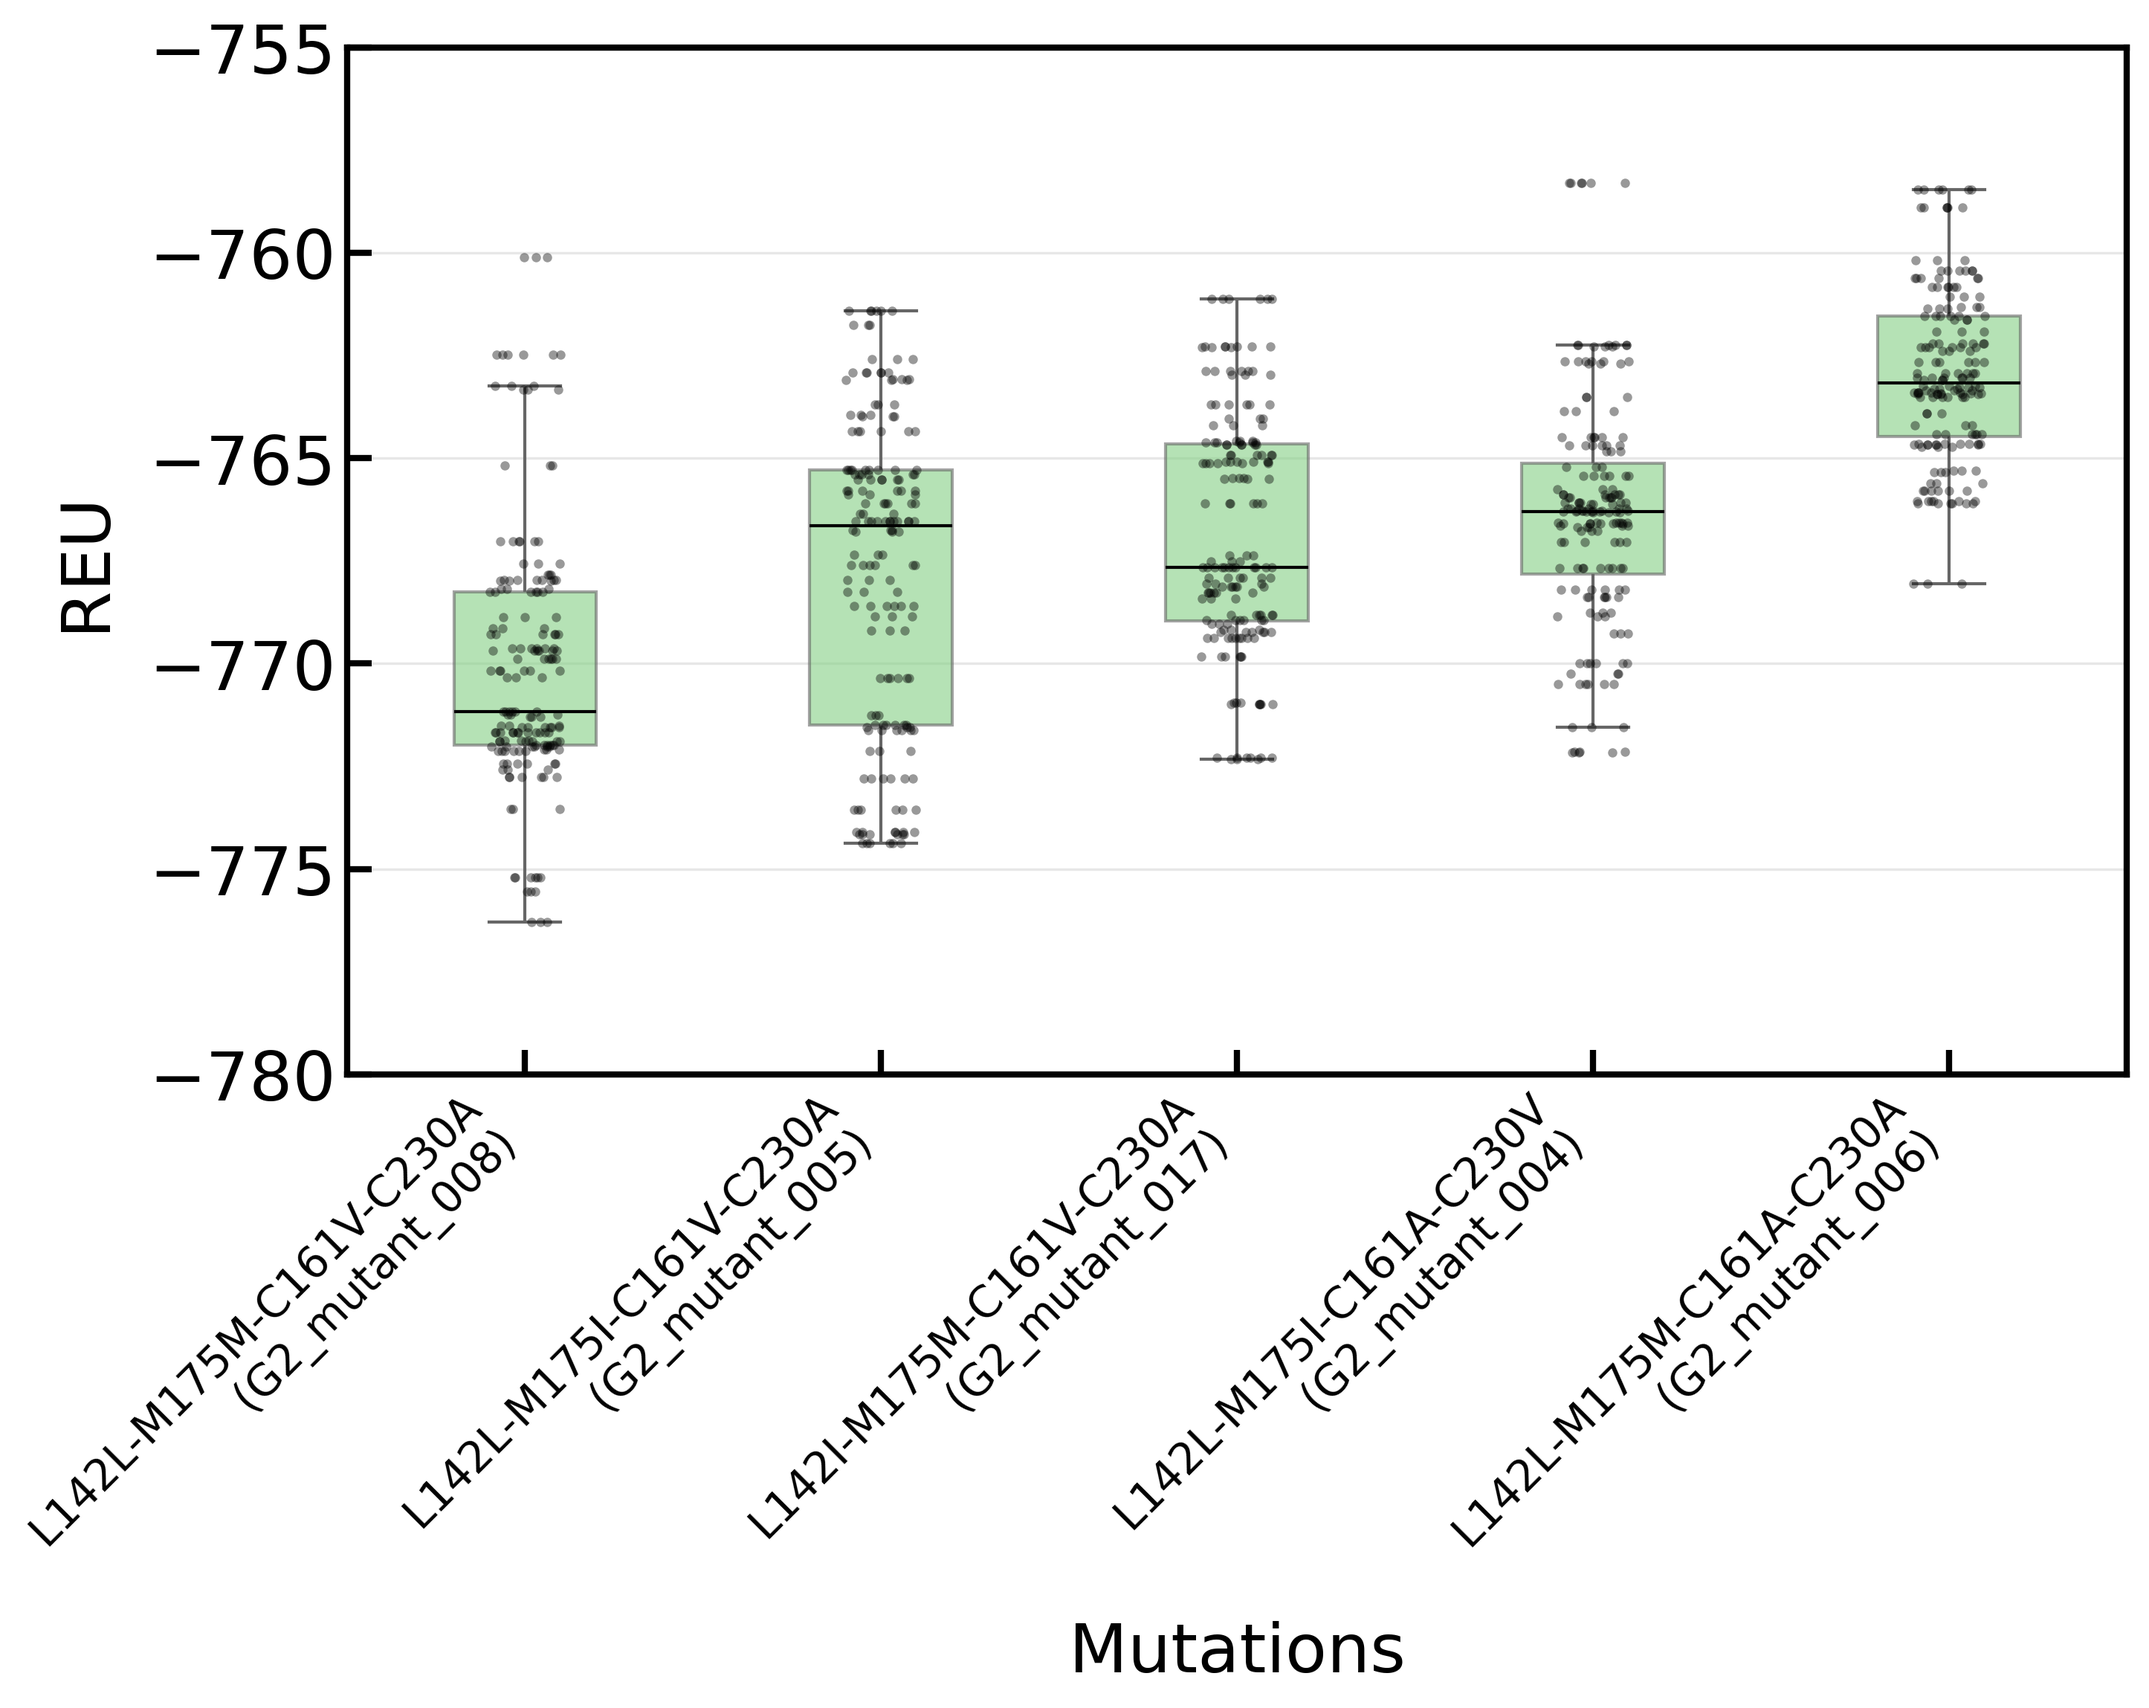
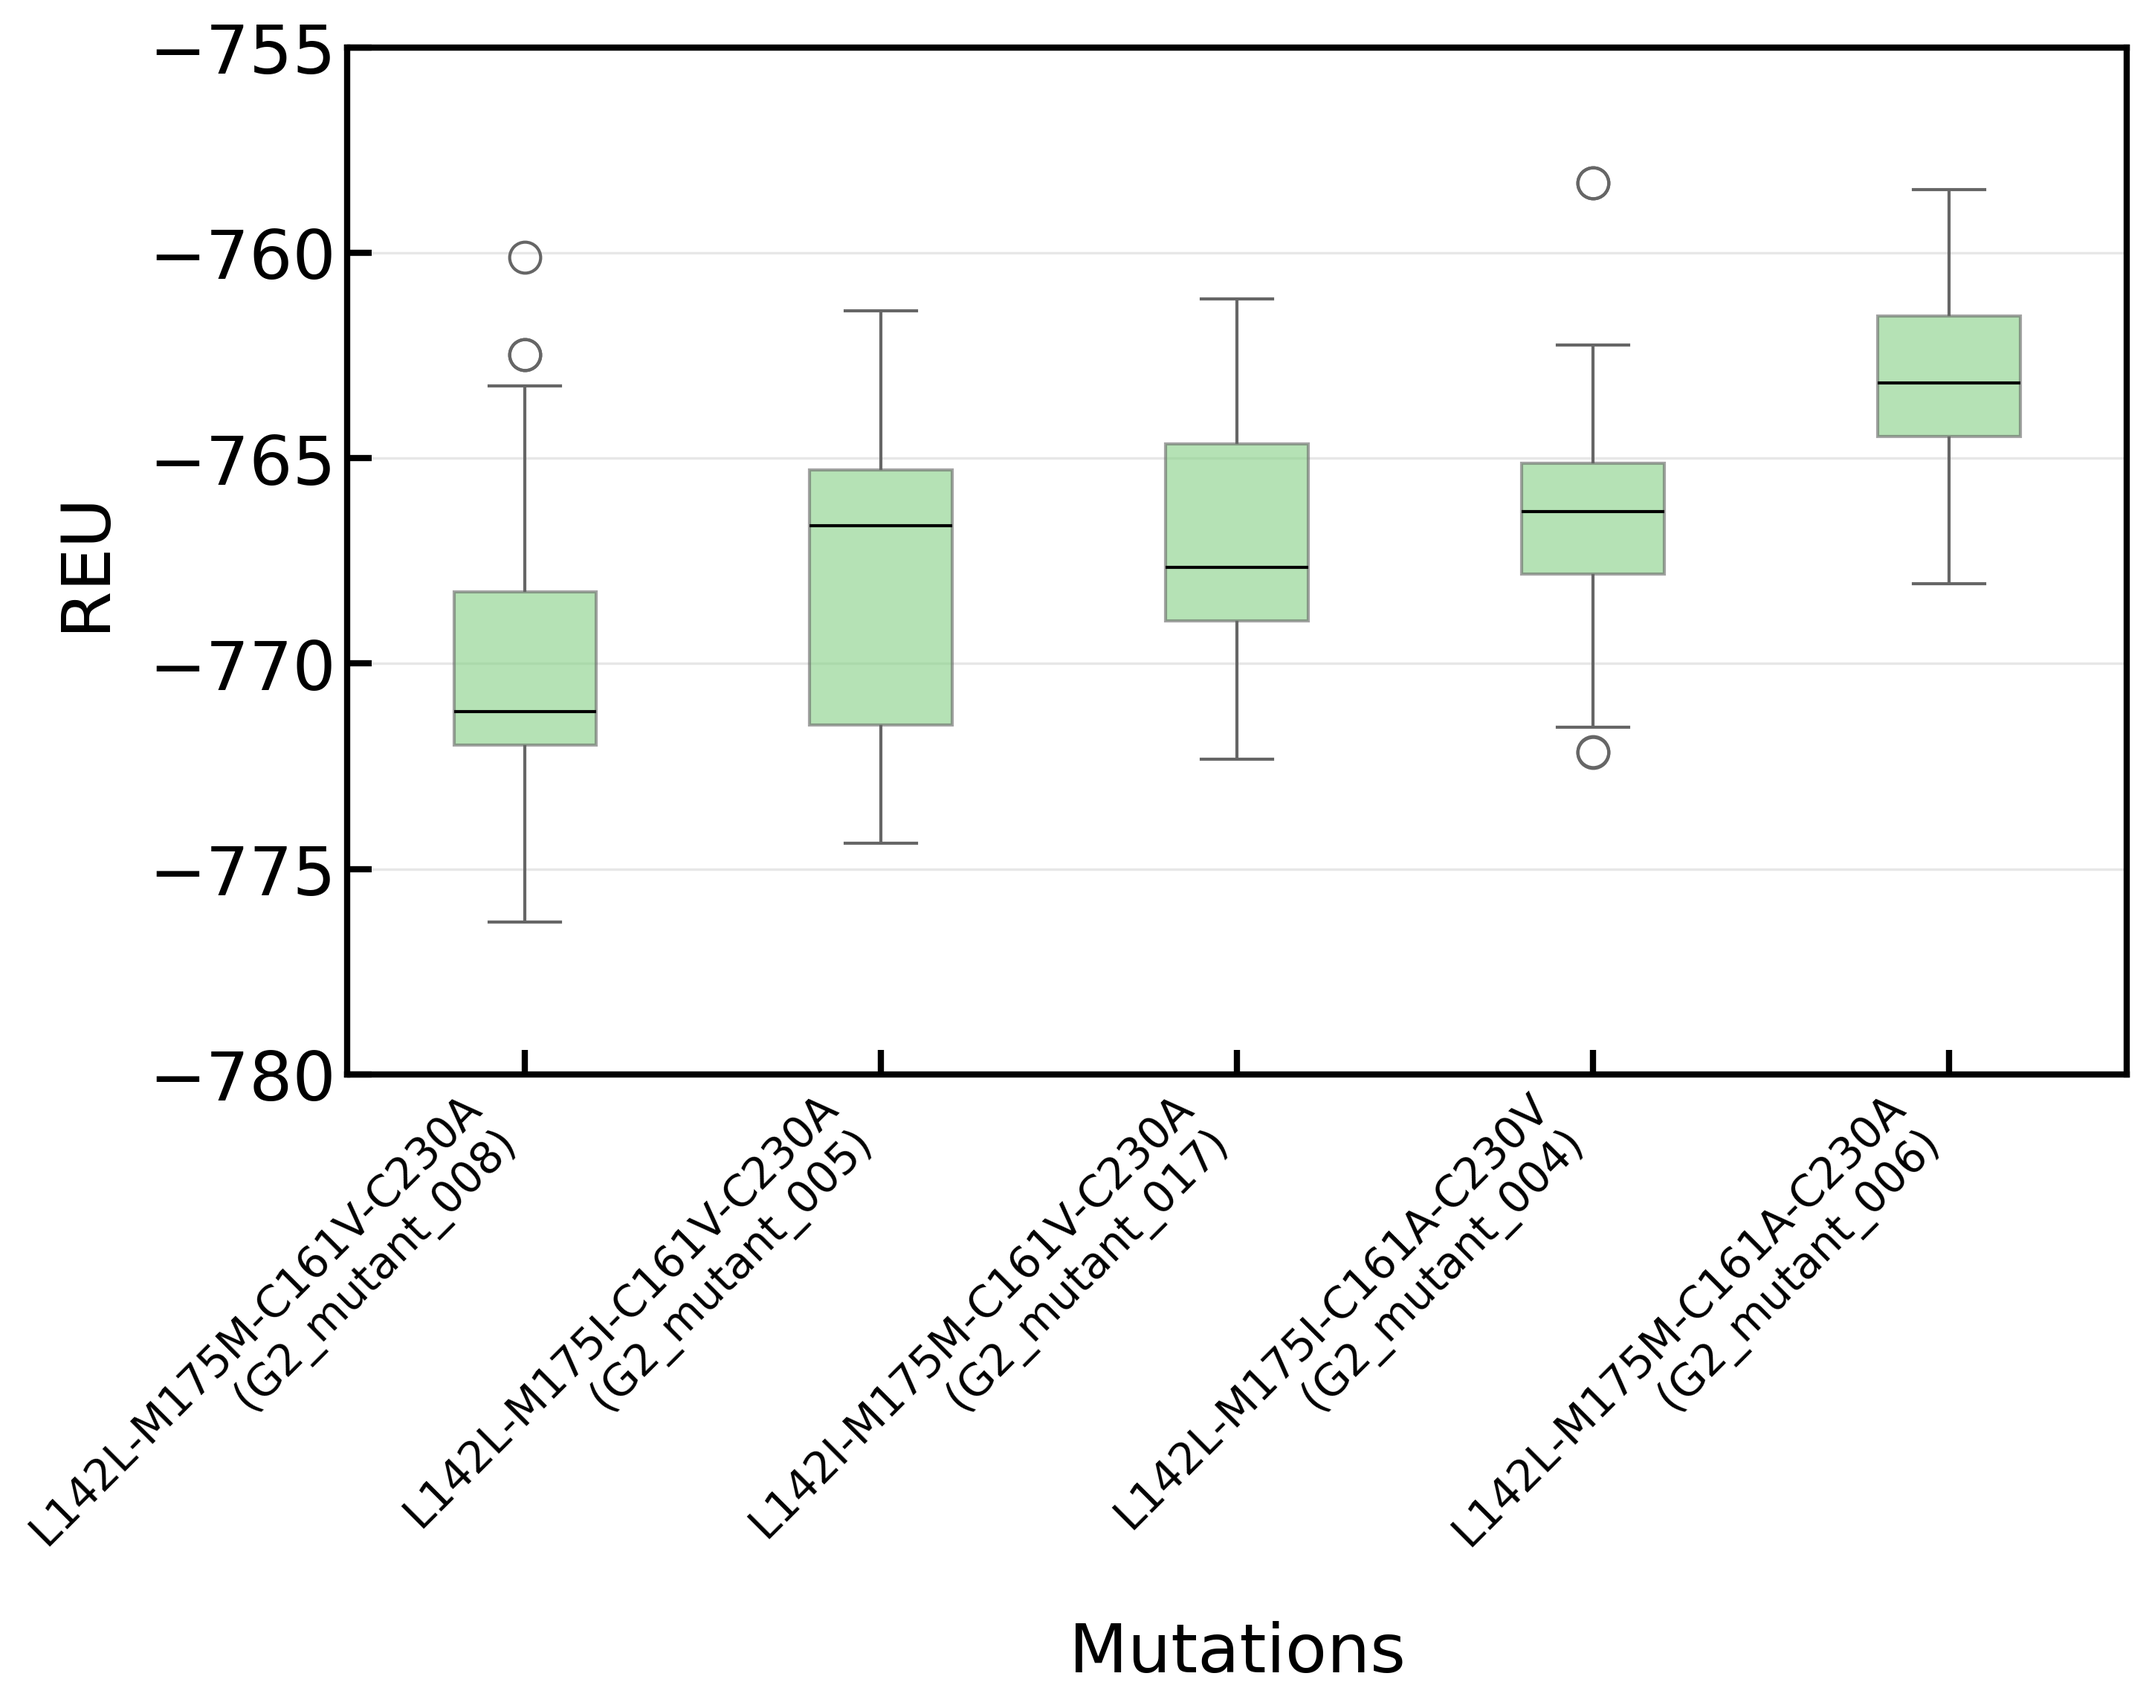
feat: show only fliers/outliers on fastrelax box plots

diff --git a/scripts/analysis/plot_fastrelax_results.py b/scripts/analysis/plot_fastrelax_results.py
@@ -173,7 +173,7 @@ def main():
             order=sort_order,
             color=GROUP_COLORS.get(group, 'lightgrey'),
             width=0.4, # More compact boxes
-            showfliers=False,
+            showfliers=True, # Show outliers
             showmeans=False,
             # meanline=True,
             # meanprops={'color': 'red', 'ls': '--', 'lw': 1.5}, # Red dashed line for mean
@@ -181,7 +181,8 @@ def main():
             boxprops=dict(alpha=0.6)
         )
 
-        # 2. Overlay individual data points (Strip plot)
+        # 2. Overlay individual data points (Strip plot) - Disabled per user request
+        """
         sns.stripplot(
             data=group_df_melted,
             x='plot_label',
@@ -192,6 +193,7 @@ def main():
             jitter=True,
             alpha=0.4
         )
+        """
 
         # 3. Add terminal output for numerical mean and median
         print(f"\n--- Statistics for Group {group} ---")
